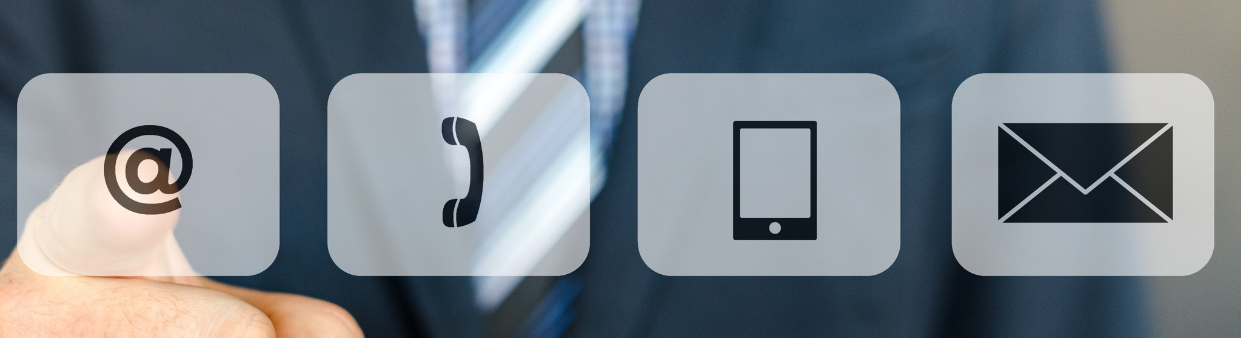
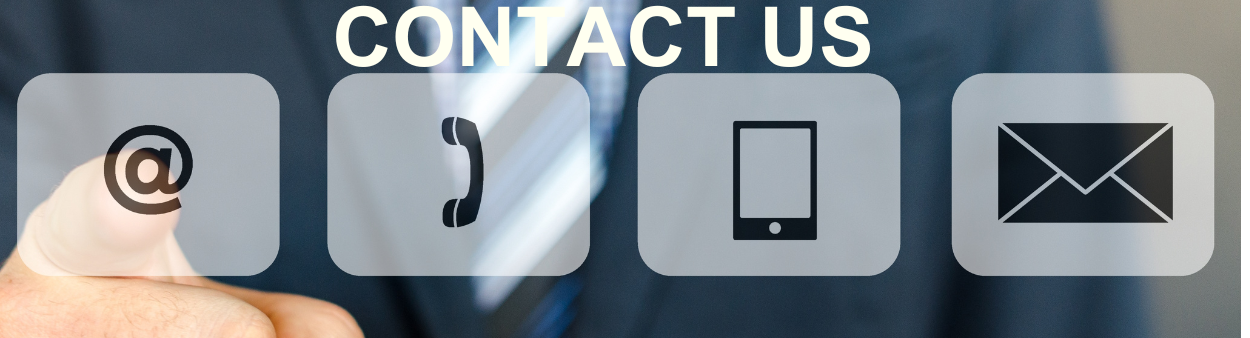
gfdgdfg

Changed region(s): [[0.2496, 0.0, 0.7176, 0.2071]]

diff --git a/contact.html b/contact.html
@@ -145,20 +145,18 @@
 			</div>
 		</header>
 		
-	 <div class="fh5co-hero">
+	 <div class="full width-container">
 		<div class="inner-banner">
-		<div class="inner-banner-text"> </div>
-		<img class="deskviewimage" src="images/bn-contact-us.png" alt="Contact Us"
-		
+		    <img class="deskviewimage" src="images/bn-contact-us.png" alt="Contact Us">
 		</div>
 	</div> 
 		
-		<!--<div class="fh5co-hero">
+		<!-- <div class="fh5co-hero">
 			<div class="fh5co-overlay"></div>
 			<div class="fh5co-cover text-center" data-stellar-background-ratio="0.5" style="background-image: url(images/bn-contact-us.png);">
 				<div class="desc animate-box">
 				<h2><strong>Contact Us </strong></h2>
-				 <h2>We Are <strong>Non-Government Organisation </strong></h2>
+					<!-- <h2>We Are <strong>Non-Government Organisation </strong></h2>
 					<span>Donation for the underprivileged children</span> 
 					<span><a class="btn btn-primary btn-lg" href="#">Donate Now</a></span>
 				</div>  

diff --git a/css/style.css b/css/style.css
@@ -1467,13 +1467,17 @@ figure {
   background: url(../images/hourglass.svg) center no-repeat #222222;
 }
 
-.mb-header .navbar-brand {
-    margin-left: 2.5rem;
-    padding: 10px 10px 10px 0;
+.inner-banner img {
+    width: 100%;
 }
 
+.deskviewimage {
+    display: block;
+}
 
-
-
+@media (max-width: 480px)
+.deskviewimage {
+    display: none !important;
+}
 
 /*# sourceMappingURL=style.css.map */
